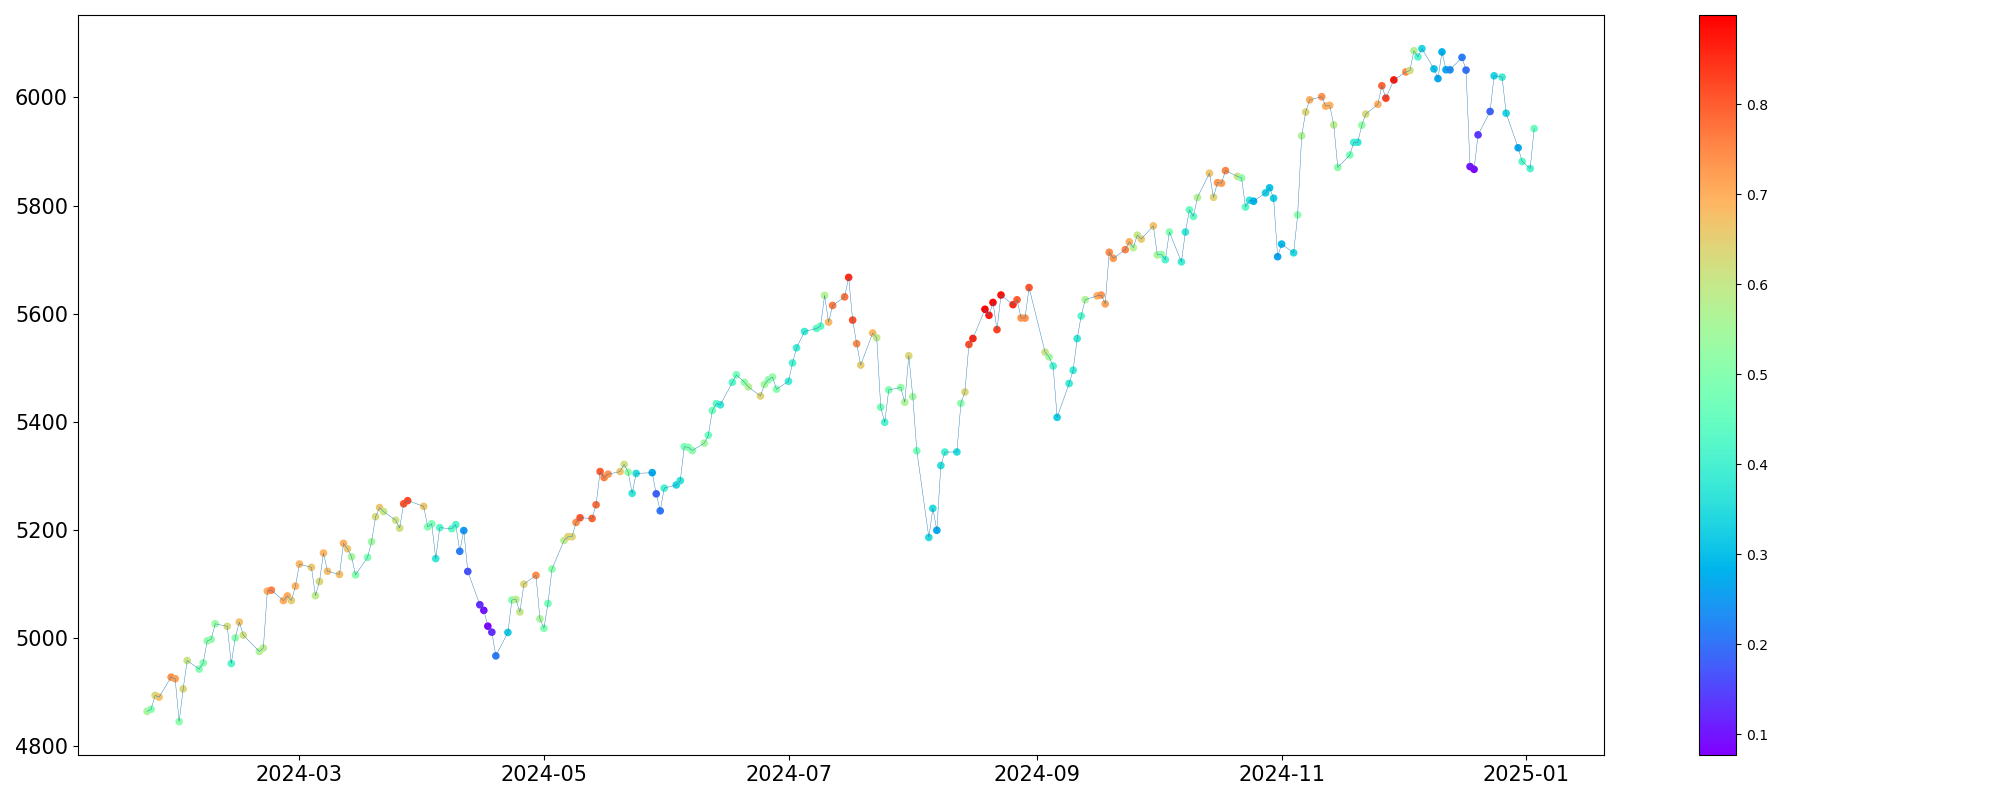
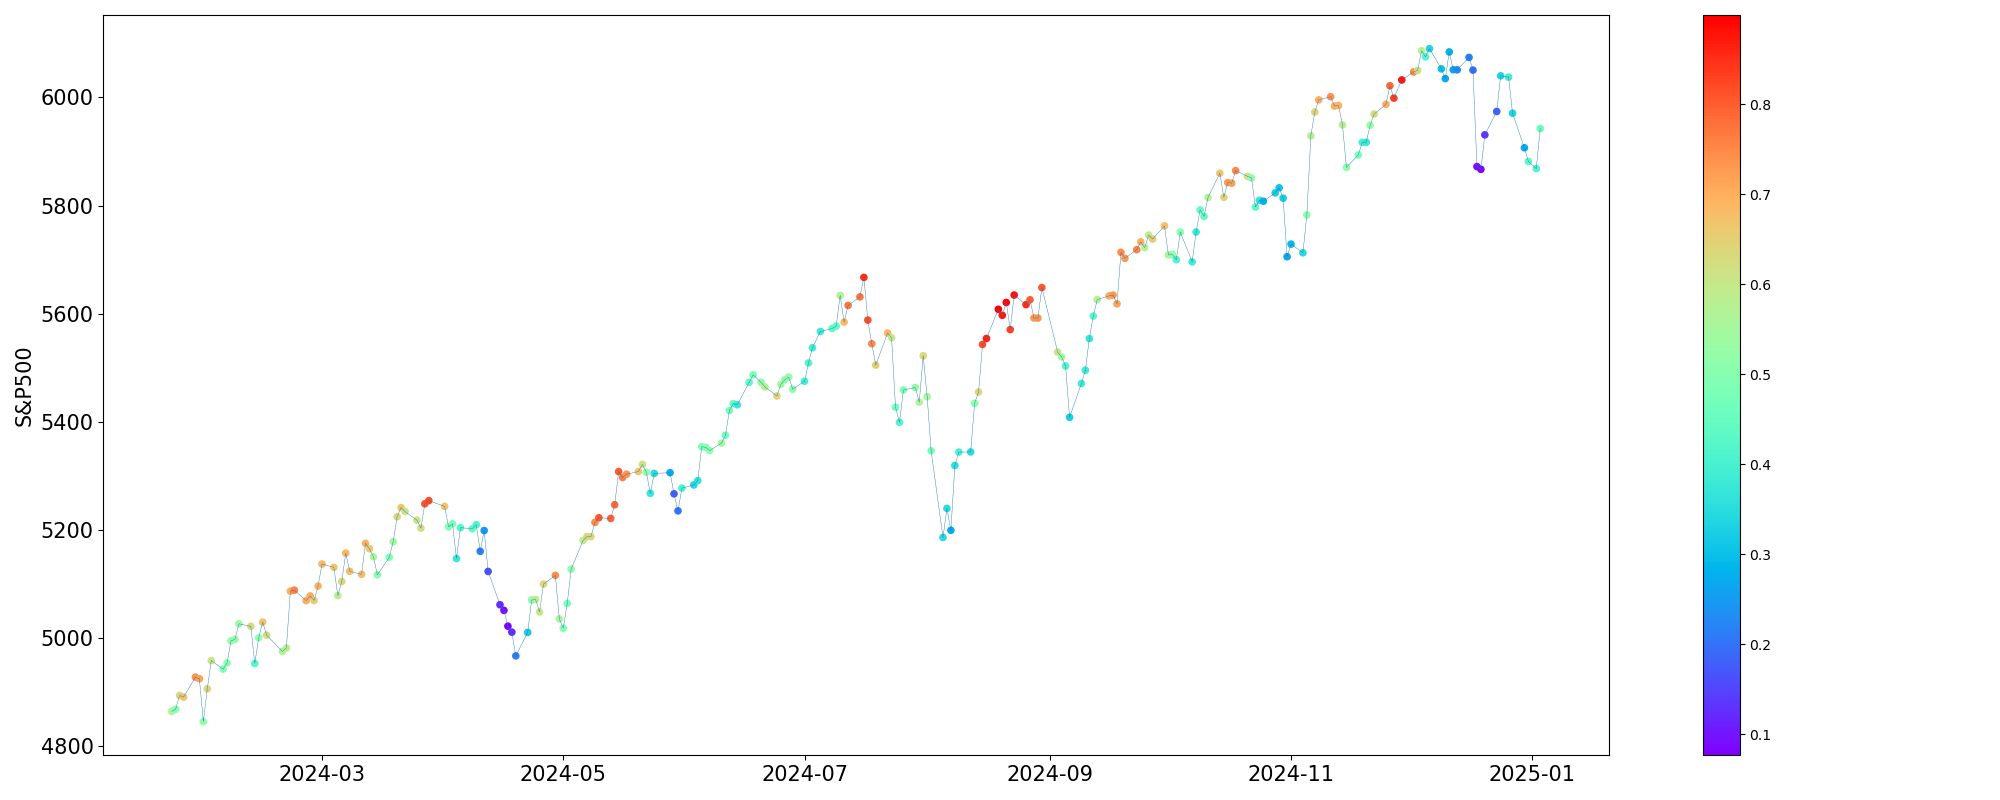
Update 250107

diff --git a/plot_after.py b/plot_after.py
@@ -16,9 +16,9 @@ def plot(
 		prefix,
 	):
 	ylabel = ''
-	if 'snp' in prefix:
+	if 'us' in prefix:
 		ylabel = 'S&P500'
-	elif 'kospi' in prefix:
+	elif 'kr' in prefix:
 		ylabel = 'KODEX 200'
 
 	x_ = [datetime.datetime.strptime(date, '%Y-%m-%d') for date in date_list]
